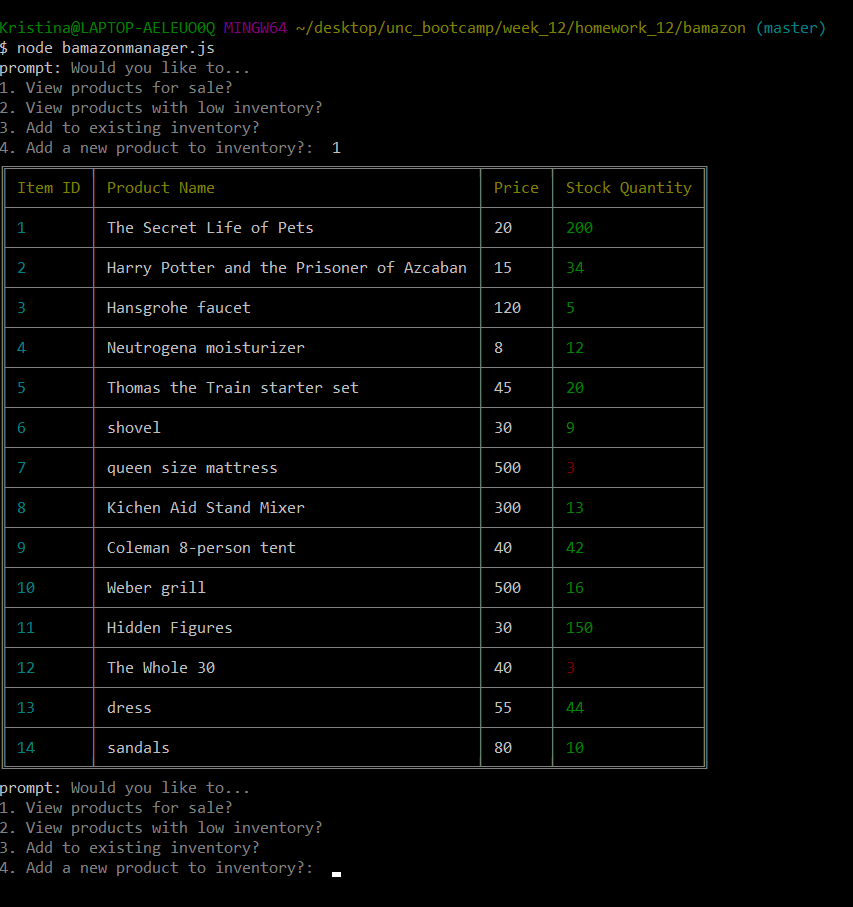
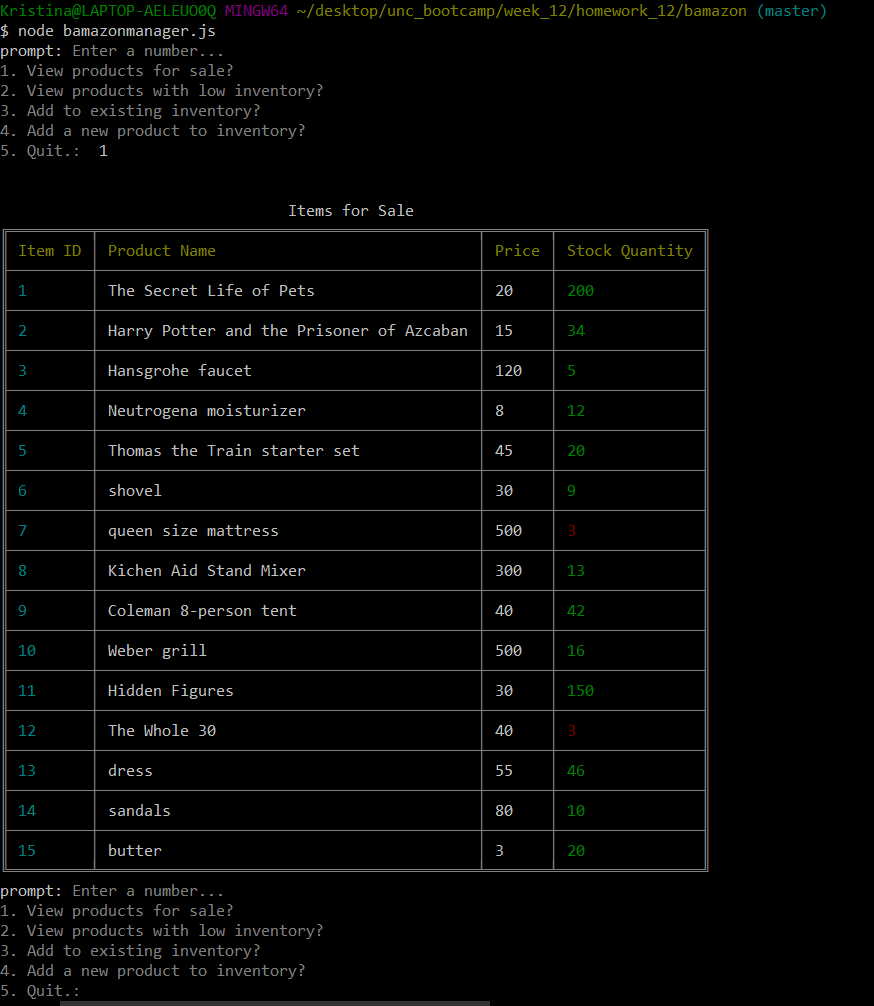
screenshots

Changed region(s): [[0.0, 0.0, 0.9449, 1.0]]

diff --git a/bamazonManager.js b/bamazonManager.js
@@ -29,7 +29,7 @@ function start() {
     prompt.start();
 
     prompt.get([{
-        message: "Would you like to...\n1. View products for sale?\n2. View products with low inventory?\n3. Add to existing inventory?\n4. Add a new product to inventory?",
+        message: "Enter a number...\n1. View products for sale?\n2. View products with low inventory?\n3. Add to existing inventory?\n4. Add a new product to inventory?\n5. Quit.",
         name: "action",
         required: true
     }], function(err, answer) {
@@ -43,8 +43,10 @@ function start() {
         } else if (answer.action === "3") {
             addInventory();
             //lets manager add products to store inventory
-        } else {
+        } else if (answer.action === "4") {
             addProduct();
+        } else {
+        	return;
         }
     });
 }
